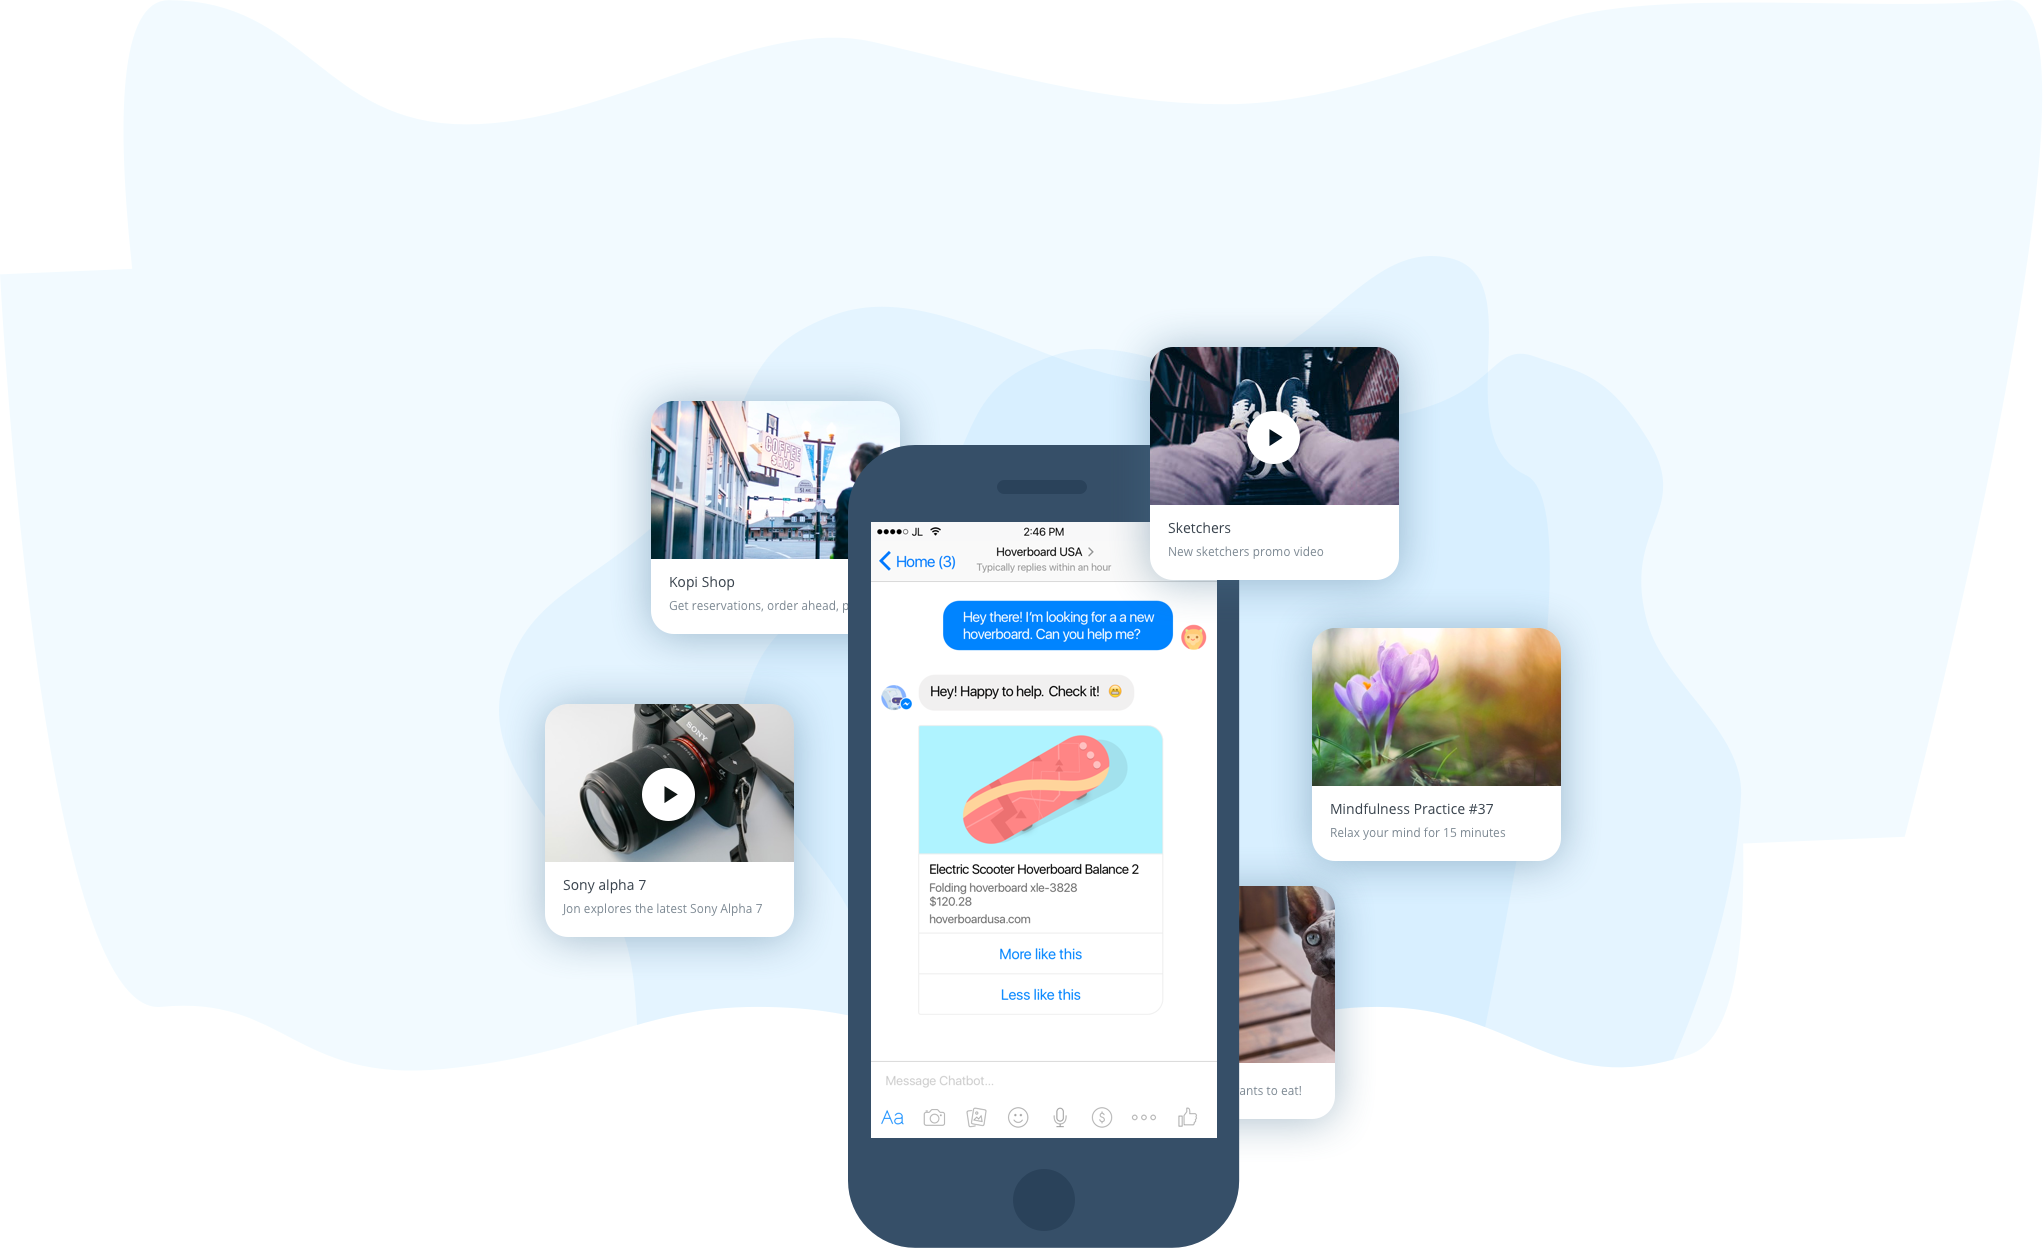
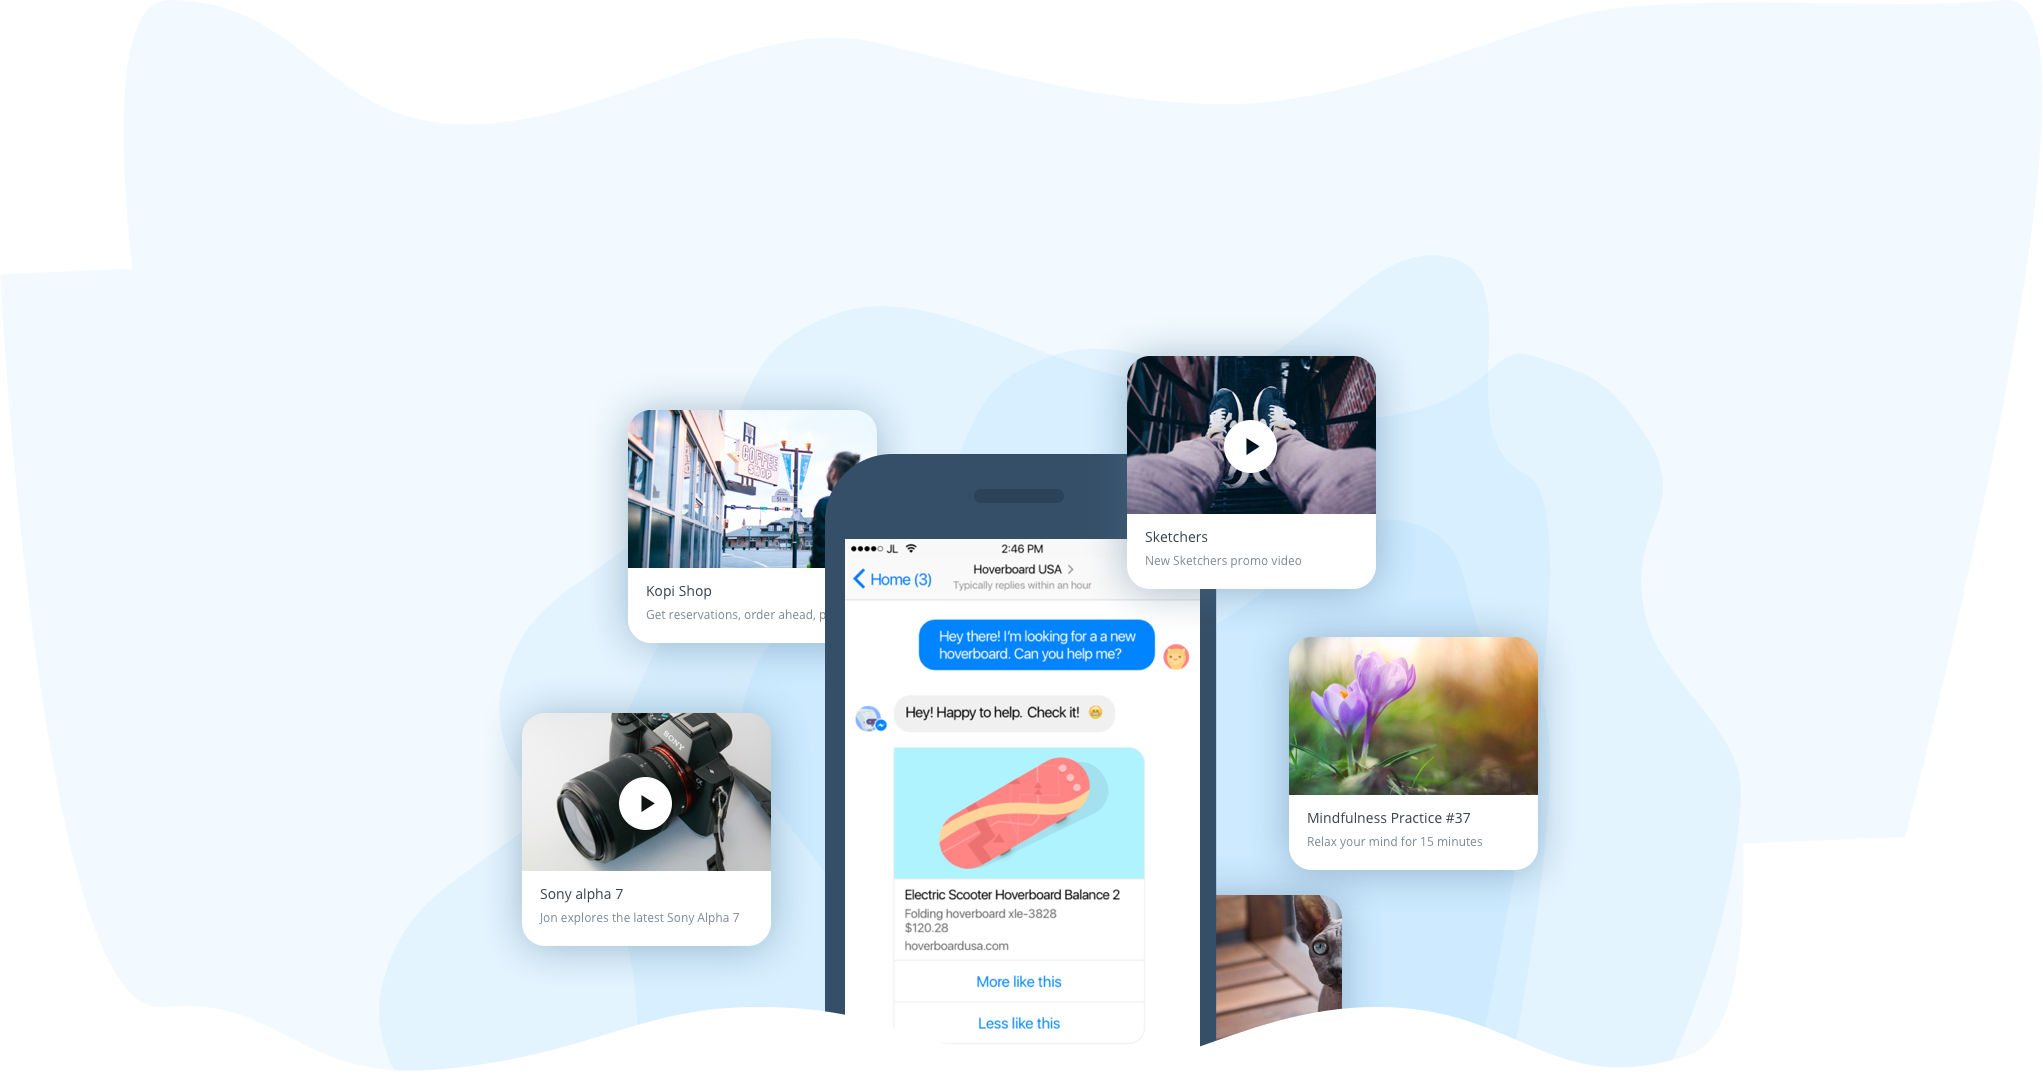
marketing and chatbots fixes

Changed region(s): [[0.185, 0.2456, 0.8634, 1.0]]

diff --git a/src/app/pages/products/marketing.html b/src/app/pages/products/marketing.html
@@ -2,16 +2,16 @@
   <navbar-top shade-class=white></navbar-top>
 
   <section id="header" class="container clearfix">
-    <div class="col-xs-12 col-md-6 text-left container breathe-lg">
+    <div class="col-xs-12 col-md-7 text-left container breathe-xxl">
       <div class="line-md thin text-white font-secondary center-xs">
         <!-- A delightful new way to support your customers -->
-        <h4 class="light text-white custom">
+        <p class=" center-xs m-0">
           A messaging app that allows you to
-        </h4>
-        <h2 class="text-white bold m-0">
+        </p>
+        <h3 class="font-secondary bold text-white center-xs m-0">
           Automagically initiate<br class="visible-lg">
           customer conversations
-        </h2>
+        </h3>
       </div>
       <div class="cta m-40  center-xs">
         <a href="{{$root.config.webapp.signup}}" class="btn btn-lg btn-info  btn-invite">Join the Waitlist</a>
@@ -55,7 +55,7 @@
           <uib-tab-heading>
             <h5>Send Segmented Campaigns</h5>
             <p class="subtext brand-grey">
-              Target the right customers with the right message for highly engaging results.
+              Target the right customers with the right <br class="visible-lg">message for highly engaging results.
             </p>
           </uib-tab-heading>
           <div class="content">
@@ -66,7 +66,7 @@
           <uib-tab-heading>
             <h5>Deliver messages to the best channels</h5>
             <p class="subtext brand-grey">
-              Automagically deliver your messages to the channel your customer prefers.
+              Automagically deliver your messages to <br class="visible-lg">the channel your customer prefers.
             </p>
           </uib-tab-heading>
           <div class="content">
@@ -77,7 +77,7 @@
           <uib-tab-heading>
             <h5>Personalize every message</h5>
             <p class="subtext brand-grey">
-              Send a perfectly personalized message, using real-time customer data.
+              Send a perfectly personalized message, <br class="visible-lg">using real-time customer data.
             </p>
           </uib-tab-heading>
           <div class="content">
@@ -88,7 +88,7 @@
           <uib-tab-heading>
             <h5>Measure message effectiveness</h5>
             <p class="subtext brand-grey">
-              View campaign analytics to understand performance & impact of your campaigns.
+              View campaign analytics to understand <br class="visible-lg">performance &amp; impact of your campaigns.
             </p>
           </uib-tab-heading>
           <div class="content">
@@ -101,7 +101,7 @@
 
   <section id="featurettes-1" class="container">
       <div class="">
-        <div class="featurette clearfix breathe-md no-gutter">
+        <div class="featurette clearfix breathe-lg no-gutter">
           <div class="col-xs-12 col-md-5 col-md-offset-1 text-wrapper">
             <b>Engage</b>
             <h3 class="featurette-heading center-xs">Effortlessly boost<br class="visible-lg">customer engagement</h3>
@@ -112,7 +112,7 @@
           </div>
         </div>
         <!-- <hr class="featurette-divider"> -->
-        <div class="featurette clearfix breathe-md no-gutter">
+        <div class="featurette clearfix breathe-lg no-gutter">
           <div class="col-xs-12 col-md-5 col-md-push-6 text-wrapper">
             <b>Retain</b>
             <h3 class="featurette-heading center-xs">Prevent customers<br class="visible-lg">from slipping away</h3>
@@ -123,7 +123,7 @@
           </div>
         </div>
         <!-- <hr class="featurette-divider"> -->
-        <div class="featurette clearfix breathe-md no-gutter">
+        <div class="featurette clearfix breathe-lg no-gutter">
           <div class="col-xs-12 col-md-5 col-md-offset-1 text-wrapper">
             <b>Grow</b>
             <h3 class="featurette-heading center-xs">Build relationships with personalized messages - at scale</h3>
@@ -140,7 +140,7 @@
   <section id="marketing-5" class="text-center">
     <div class="container">
       <h3 class="title">Move beyond email.</h3>
-      <p class="subtext brand-grey">Deliver rich, multi-channel messages full of emoji, GIF's, and video through the most popular mobile messaging channels.</p>
+      <p class="subtext brand-grey col-md-offset-2 col-md-8 ">Deliver rich, multi-channel messages full of emoji, GIF's, and video through the most popular mobile messaging channels.</p>
     </div>
   </section>
   

diff --git a/src/app/pages/products/chatbots.html b/src/app/pages/products/chatbots.html
@@ -2,7 +2,7 @@
   <navbar-top shade-class=dark></navbar-top>
 
   <section id="header" class="container clearfix">
-  <div class="col-xs-12 col-md-6 text-left container breathe-lg">
+  <div class="col-xs-12 col-md-6 text-left container breathe-xxl">
       <p class=" center-xs m-0">
         A messaging app that provides
       </p>
@@ -32,7 +32,7 @@
 
   <section id="featurettes-1">
     <div class="container">
-      <div class="featurette breathe-sm">
+      <div class="featurette breathe-lg">
         <div class="col-xs-12 col-md-6 text-wrapper">
           <h3 class="featurette-heading center-xs">Keep your customers happy around the clock</h3>
           <p clsas="center-xs">If you've ever dreamed of keeping customers supported and engaged 24/7, 365 - chatbots are your answer. Increase customer happiness, boost sales, and create brilliant user experiences.</p>
@@ -41,7 +41,7 @@
           <img src="/assets/img/chatbots/featurettes/auto1_ill.png" alt="auto1_ill" class="img-responsive">
         </div>
       </div>
-      <div class="featurette breathe-sm">
+      <div class="featurette breathe-lg">
         <div class="col-xs-12 col-md-6 col-md-offset-1 col-md-push-5 text-wrapper">
           <h3 class="featurette-heading center-xs">Delightful, personalized, 1:1 interactions - at scale</h3>
           <p clsas="center-xs">Bots can leverage your data-rich Lifecycle CRM to bring context and personalization to every customer interaction with your business.</p>
@@ -50,7 +50,7 @@
           <img src="/assets/img/chatbots/featurettes/delightful.png" alt="delightful" class="img-responsive">
         </div>
       </div>
-      <div class="featurette breathe-sm">
+      <div class="featurette breathe-lg">
         <div class="col-xs-12 col-md-6 text-wrapper">
           <h3 class="featurette-heading center-xs">Bot + Human hybrid support = customer love</h3>
           <p clsas="center-xs">Automate conversations with your customers &amp; have human agents take over when it's needed. Bots + Humans = happier teams &amp; customers.</p>
@@ -59,7 +59,7 @@
           <img src="/assets/img/chatbots/featurettes/auto2_ill.png" alt="auto2_ill" class="img-responsive">
         </div>
       </div>
-      <div class="featurette breathe-sm">
+      <div class="featurette breathe-lg">
         <div class="col-xs-12 col-md-6 col-md-offset-1 col-md-push-5 text-wrapper">
           <h3 class="featurette-heading center-xs">Create one bot, deploy everywhere</h3>
           <p class="lead-sm line-lg brand-grey">Build bots on SMS, FB Messenger, Live Chat, and many others - without writing a single line of code.  You bring us your ideas, we make sure they reach customers in the most popular messaging channels.</p>
@@ -95,6 +95,6 @@
 
 
   <div>
-    <footer-main cta-text="Chatbots allow you put your growth &amp; retention on autopilot - <b>get started for free</b>." cta-button-text="Request Invite" img="/assets/img/chatbots/footer_bg.png" alt="footer_bg"></footer-main>
+    <footer-main cta-text="Chatbots allow you put your growth &amp; <br class='visible-lg'>retention on autopilot - <b>get started for free</b>." cta-button-text="Request Invite" img="/assets/img/chatbots/footer_bg.png" alt="footer_bg"></footer-main>
   </div>
 </div>

diff --git a/src/app/pages/products/support.html b/src/app/pages/products/support.html
@@ -57,7 +57,7 @@
           <uib-tab-heading>
             <h5>Collision Detection</h5>
             <p class="subtext brand-grey">
-              See who is replying in real-time &amp; avoid duplicate responses to the same customer.
+              See who is replying in real-time &amp; avoid <br class="visible-lg">duplicate responses to the same customer.
             </p>
           </uib-tab-heading>
           <div class="content">
@@ -68,7 +68,7 @@
           <uib-tab-heading>
             <h5>Multi-channel Support</h5>
             <p class="subtext brand-grey">
-              Quickly switch between the messaging channels that your customers prefer.
+              Quickly switch between the messaging channels <br class="visible-lg">that your customers prefer.
             </p>
           </uib-tab-heading>
           <div class="content">

diff --git a/src/app/stylesheets/marketing.scss b/src/app/stylesheets/marketing.scss
@@ -74,7 +74,7 @@
 					width: 400px;
 				}
 				&.spaceship {
-					width: 350px;
+					width: 280px;
 					left: 65%;
 					top: 1%;
 				}
@@ -83,7 +83,7 @@
 	}
 }
 
-@include respond-to(lg) {
+@include respond-to(md) {
 	.page-marketing {
 		section#header {
 			img {
@@ -97,14 +97,14 @@
 				&.parachute-2 {
 					width: 160px;
 					top: 40%;
+					right: 35%;
 					left: inherit;
-					right: 42%;
 				}
 				&.parachute-3 {
 					right: 10%;
 					top: 50%;
 					left: inherit;
-					width: 400px;
+					width: 300px;
 				}
 				&.spaceship {
 					width: 250px;
@@ -134,7 +134,7 @@
 			}
 			&.parachute-3 {
 				right: 10%;
-				top: 50%;
+				top: 40%;
 				top: 300px;
 			}
 			&.spaceship {

diff --git a/src/app/stylesheets/landing.scss b/src/app/stylesheets/landing.scss
@@ -119,8 +119,21 @@
 @include respond-to(xl) {
 	.page-landing {
 		background-position-y: inherit;
-		background-size: contain;
+		background-size: 1999px;
 		background-position-y: -450px;
+		section#header {
+			.dudes {
+				height: 690px;
+				img {
+					position: absolute;
+					&.dude-1 { top: 0%; }
+					&.dude-2 { top: 20%; }
+					&.dude-3 { top: 10%; }
+					&.dude-4 { top: 24%; }
+					&.dude-5 { top: -1%; }
+				}
+			}
+		}
 	}
 
 }
@@ -128,6 +141,7 @@
 @include respond-to(xxl) {
 	.page-landing {
 		background-position-y: -850px;
+		background-size: 2600px;
 	}
 
 }

diff --git a/src/app/stylesheets/global.scss b/src/app/stylesheets/global.scss
@@ -134,12 +134,13 @@ a:hover {
         .item {
             margin-bottom: 40px;
             img {
-                height: 110px;
+                height: 95px;
                 padding: 0;
                 margin-bottom: 50px;
             }
-            h3, h4 {
+            h3, h4, h5 {
                 margin: 20px 0 30px;
+                font-size: 20px;
             }
             p {
                 color: $brand-grey;

diff --git a/src/app/components/footer/footer.html b/src/app/components/footer/footer.html
@@ -8,7 +8,7 @@
 
 
     <section class="cta text-center col-xs-12 col-md-8 col-md-offset-2 col-lg-6 col-lg-offset-3">
-        <h2 class="blurb text-white font-secondary bold" ng-bind-html="ctaText"></h2>
+        <h3 class="blurb text-white font-secondary normal" ng-bind-html="ctaText"></h3>
         <a href="{{$root.config.webapp.signup}}" class="btn btn-lg btn-info uppercase">{{ctaButtonText}}</a>
     </section>
 
